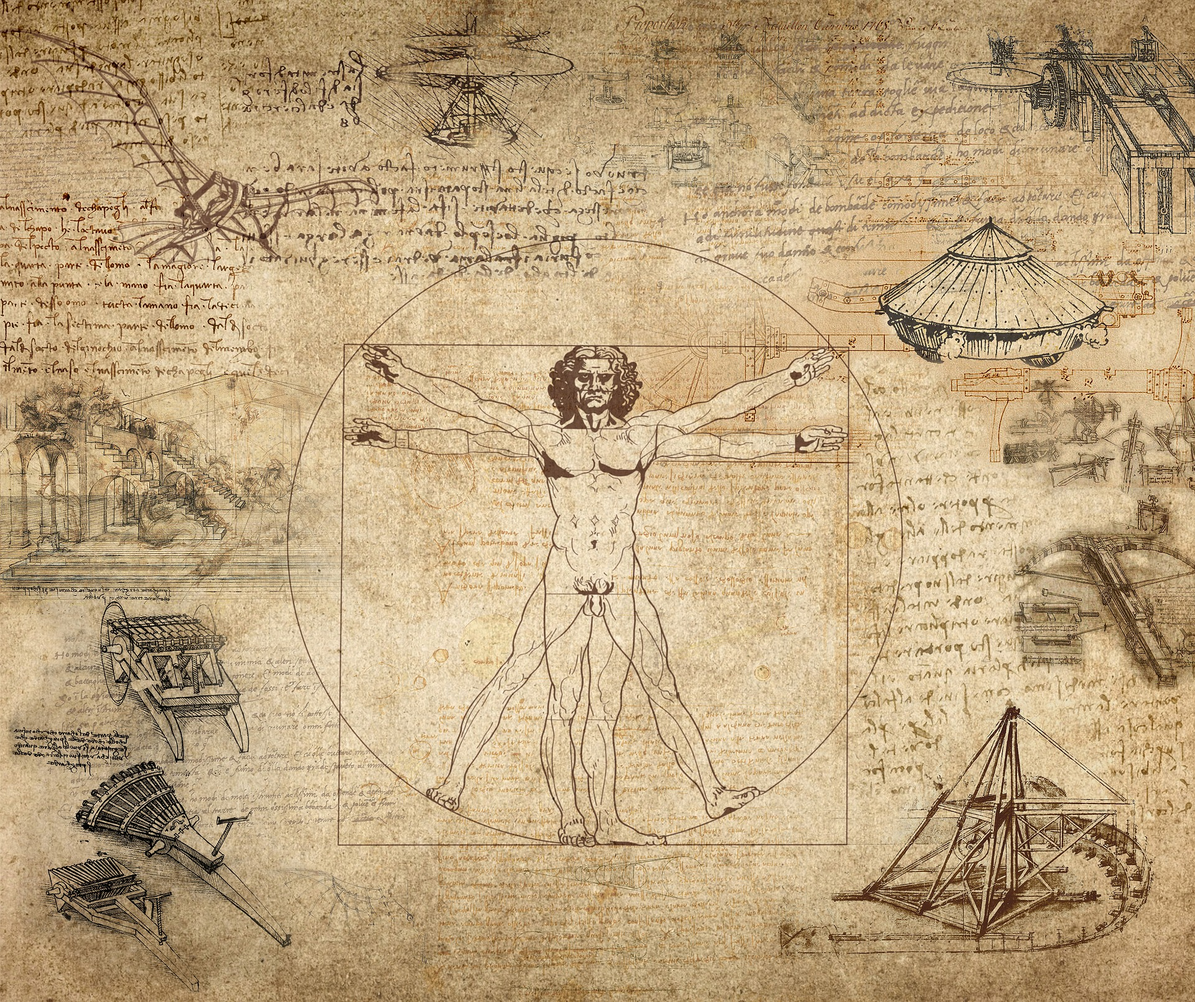
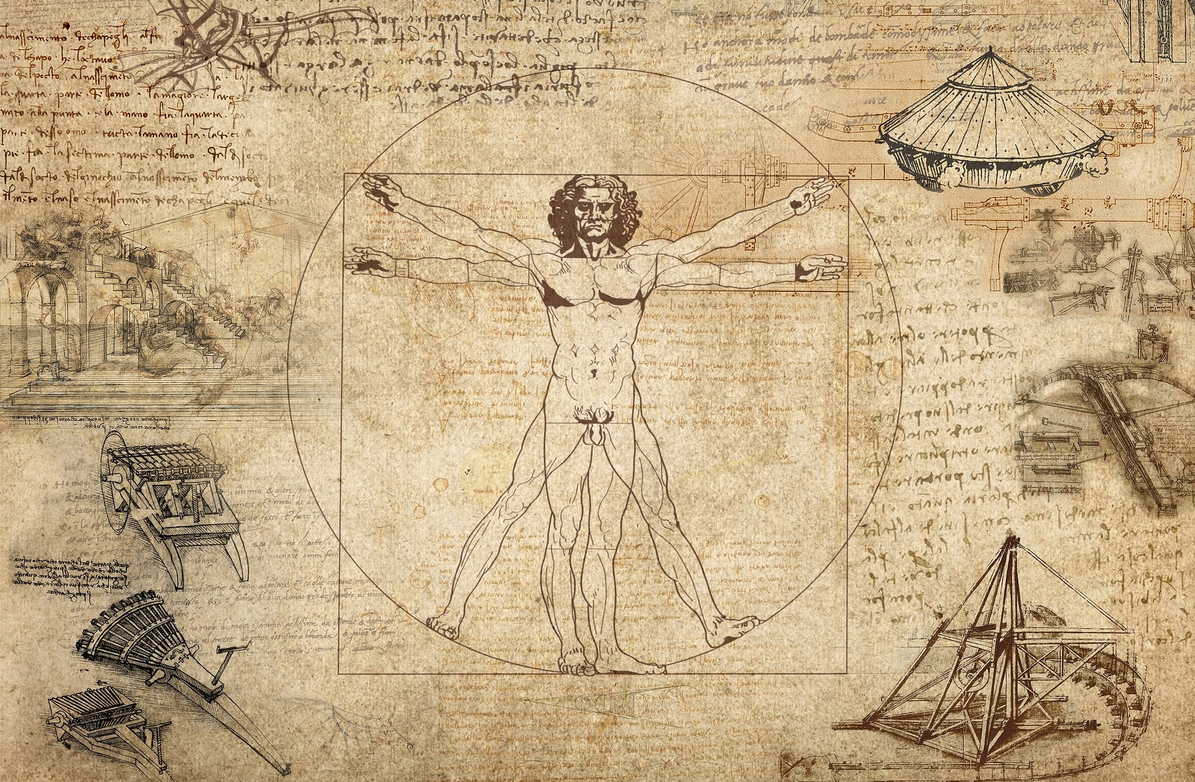
second commit

diff --git a/assets/css/main.css b/assets/css/main.css
@@ -677,28 +677,23 @@ input, select, textarea {
 		.image.main {
 			display: block;
 			margin: 2.5rem 0;
-			width: 100%;
-			max-height: 380px;
-    		overflow: hidden; /* hide the cropped portion */
+			margin-left: auto;
+			margin-right: auto;
+			width: 67%;
 		}
 
 			.image.main img {
+				margin-left: auto;
+				margin-right: auto;
 				width: 100%;
-				position: relative; /* allows repositioning */
-				/* top: 25%;
-    			/* margin-top: -100%; /* magic! */
-			}
-			.image.main.about img {
-				width: 100%;
-				position: relative; /* allows repositioning */
-				
-    			margin-top: -15%; /* magic! */
 			}
 
 		@media screen and (max-width: 736px) {
 
 			.image.main {
 				margin: 2rem 0;
+				margin-left: auto;
+				margin-right: auto;
 			}
 
 		}
@@ -706,7 +701,10 @@ input, select, textarea {
 		@media screen and (max-width: 480px) {
 
 			.image.main {
+				width: 100%;
 				margin: 1.5rem 0;
+				margin-left: auto;
+				margin-right: auto;
 			}
 
 		}

diff --git a/index.html b/index.html
@@ -20,7 +20,7 @@
 				<!-- Header -->
 					<header id="header">
 						<div class="logo">
-							<span class="icon fa-diamond"></span>
+							<span class="icon fa-circle-o-notch"></span>
 						</div>
 						<div class="content">
 							<div class="inner">
@@ -132,7 +132,7 @@
 									</ul>
 								</form> -->
 								<ul class="icons">
-									<li><a href="#" class="icon fa-linkedin"><span class="label">LinkedIn</span></a></li>
+									<li><a href="www.linkedin.com/in/huanhock" class="icon fa-linkedin"><span class="label">LinkedIn</span></a></li>
 									<li><a href="#" class="icon fa-twitter"><span class="label">Twitter</span></a></li>
 									<li><a href="#" class="icon fa-facebook"><span class="label">Facebook</span></a></li>
 									<li><a href="#" class="icon fa-instagram"><span class="label">Instagram</span></a></li>
